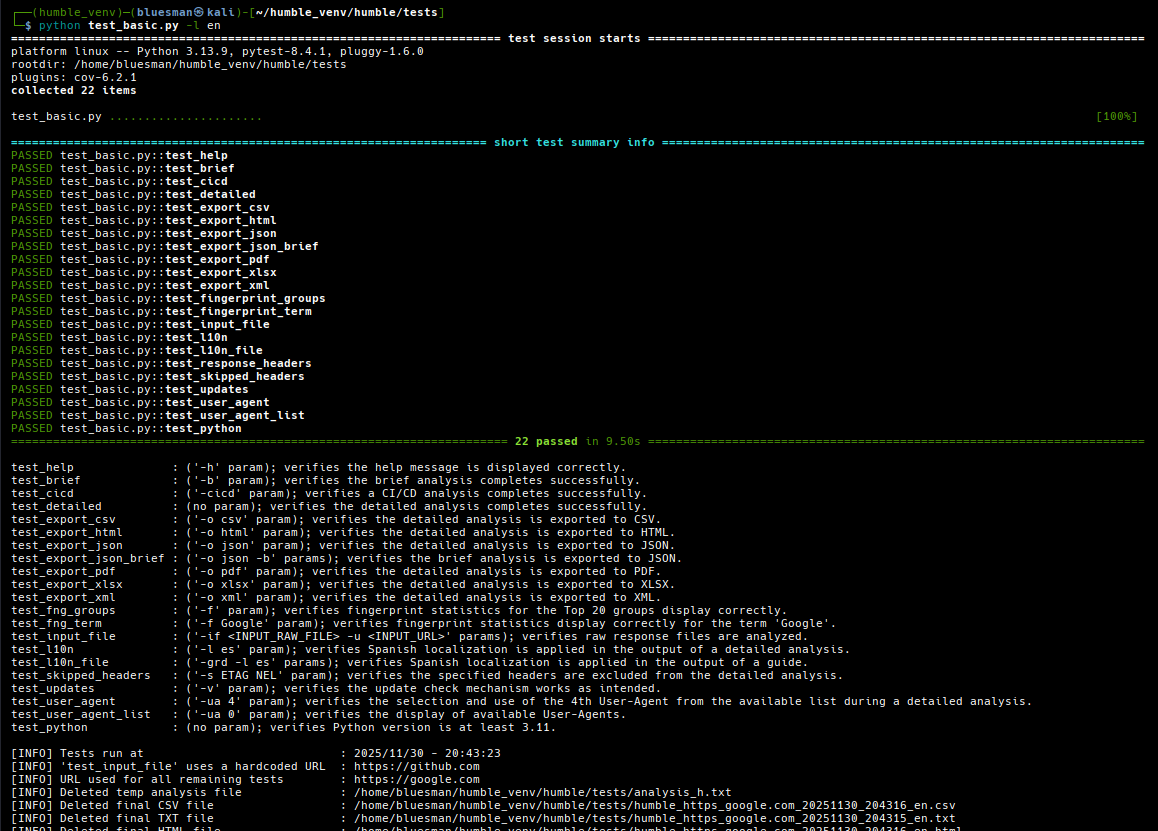
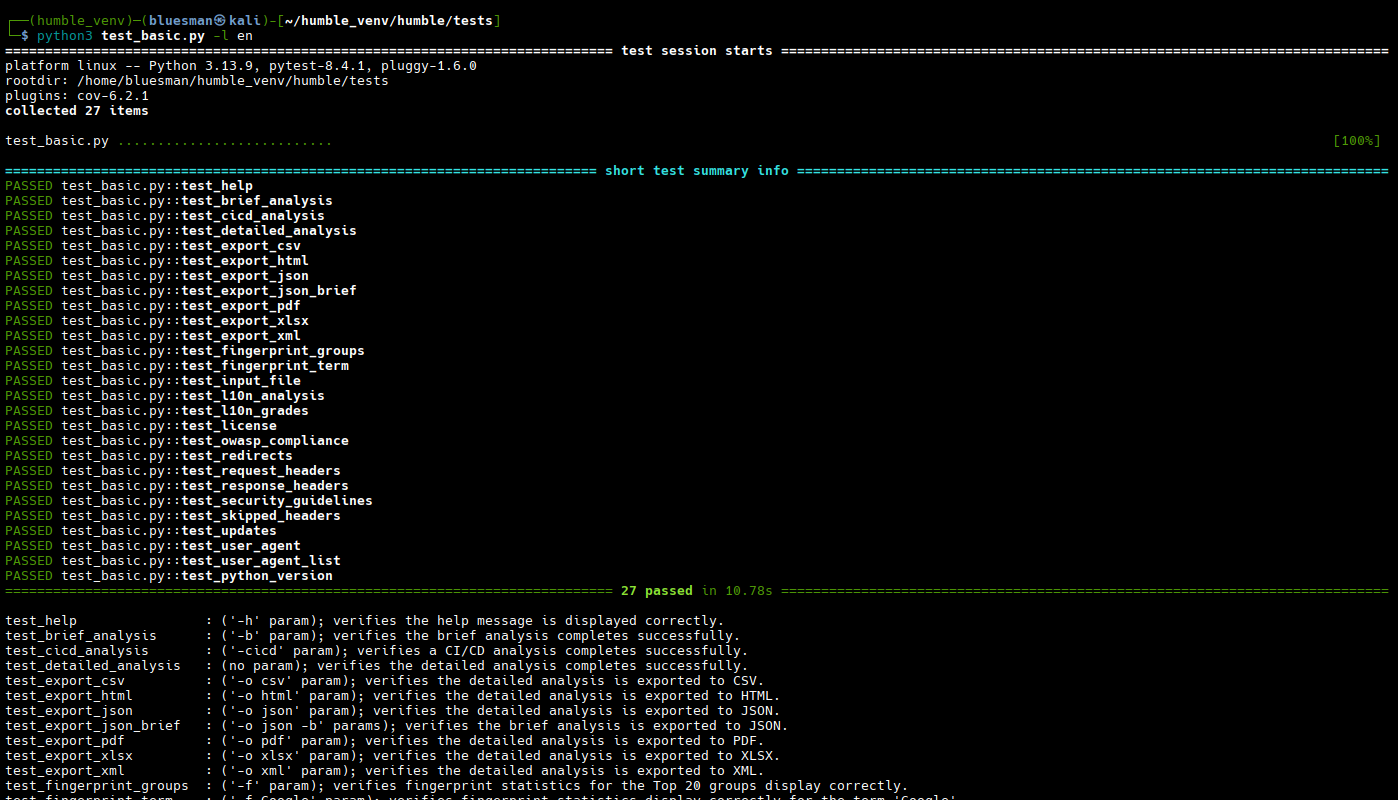
Feature: Added five functional tests

Changed region(s): [[0.0, 0.0, 0.9948, 1.0], [0.8394, 0.8438, 0.8705, 0.875], [0.7461, 0.8438, 0.7772, 0.875]]

diff --git a/tests/test_basic.py b/tests/test_basic.py
@@ -30,12 +30,12 @@ REQUIRED_PYTHON = (3, 11)
 TEST_URL = 'https://google.com'
 TEST_CFGS = {
     'test_help': (['-h'], 'want to contribute?'),
-    'test_brief': (['-u', TEST_URL, '-b'], 'Analysis Grade:'),
-    'test_cicd': (['-u', TEST_URL, '-cicd'], 'Analysis Grade'),
-    'test_detailed': (['-u', TEST_URL], 'Analysis Grade:'),
+    'test_brief_analysis': (['-u', TEST_URL, '-b'], 'Analysis Grade:'),
+    'test_cicd_analysis': (['-u', TEST_URL, '-cicd'], 'Analysis Grade'),
+    'test_detailed_analysis': (['-u', TEST_URL], 'Analysis Grade:'),
     'test_export_csv': (['-u', TEST_URL, '-o', 'csv'], 'CSV saved'),
-    'test_export_html': (['-u', TEST_URL, '-o', 'html'], 'HTML saved'),
-    'test_export_json': (['-u', TEST_URL, '-o', 'json'], 'JSON saved'),
+    'test_export_html': (['-u', TEST_URL, '-o', 'html', '-r'], 'HTML saved'),
+    'test_export_json': (['-u', TEST_URL, '-o', 'json', '-r'], 'JSON saved'),
     'test_export_json_brief': (['-u', TEST_URL, '-o', 'json', '-b'],
                                'JSON saved'),
     'test_export_pdf': (['-u', TEST_URL, '-o', 'pdf'], 'PDF saved'),
@@ -45,9 +45,20 @@ TEST_CFGS = {
     'test_fingerprint_term': (['-f', 'Google'], 'Headers related to'),
     'test_input_file': (['-if', HUMBLE_INPUT_FILE, '-u', HUMBLE_INPUT_URL],
                         'Input:'),
-    'test_l10n': (['-u', TEST_URL, '-l', 'es'], 'Advertencias a revisar'),
-    'test_l10n_file': (['-grd', '-l', 'es'], 'No te obsesiones'),
+    'test_l10n_analysis': (['-u', TEST_URL, '-l', 'es'],
+                           'Advertencias a revisar'),
+    'test_l10n_grades': (['-grd', '-l', 'es'], 'No te obsesiones'),
+    'test_license': (['-lic'], 'copyright'),
+    'test_owasp_compliance': (['-u', TEST_URL, '-c'],
+                              'non-recommended values'),
+    'test_redirects': (['-u', TEST_URL, '-df'], 'Analysis Grade:'),
+    'test_request_headers': (
+        ['-u', TEST_URL, '-H', 'Cache-Control: no-cache', '-H',
+         'If-Modified-Since: Wed, 21 Oct 2020 00:00:00 GMT'],
+        'Analysis Grade:'
+    ),
     'test_response_headers': (['-u', TEST_URL, '-r'], 'HTTP Response Headers'),
+    'test_security_guidelines': (['-g'], 'headers-in-wordpress'),
     'test_skipped_headers': (['-u', TEST_URL, '-s', 'ETAG', 'NEL'],
                              'expressly excluded'),
     'test_updates': (['-v'], 'Keeping your security tools'),
@@ -55,13 +66,19 @@ TEST_CFGS = {
                         'Selected the User-Agent'),
     'test_user_agent_list': (['-ua', '0'], 'source: '),
 }
-TEST_SUMMS = ('[test_help]', '[test_brief]', '[test_cicd]', '[test_detailed]',
-              '[test_export_csv]', '[test_export_html]', '[test_export_json]',
+TEST_SUMMS = ('[test_help]', '[test_brief_analysis]', '[test_cicd_analysis]',
+              '[test_detailed_analysis]', '[test_export_csv]',
+              '[test_export_html]', '[test_export_json]',
               '[test_export_json_brief]', '[test_export_pdf]',
-              '[test_export_xlsx]', '[test_export_xml]', '[test_fng_groups]',
-              '[test_fng_term]', '[test_input_file]', '[test_l10n]',
-              '[test_l10n_file]', '[test_skipped_headers]', '[test_updates]',
-              '[test_user_agent]', '[test_user_agent_list]', '[test_python]')
+              '[test_export_xlsx]', '[test_export_xml]',
+              '[test_fingerprint_groups]', '[test_fingerprint_term]',
+              '[test_input_file]', '[test_l10n_analysis]',
+              '[test_l10n_grades]', '[test_license]',
+              '[test_owasp_compliance]', '[test_redirects]',
+              '[test_requests_headers]', '[test_response_headers]',
+              '[test_security_guidelines]', '[test_skipped_headers]',
+              '[test_updates]', '[test_user_agent]', '[test_user_agent_list]',
+              '[test_python_version]')
 
 
 class _Args:
@@ -144,7 +161,7 @@ def get_python_version(req=REQUIRED_PYTHON):
     return sys.version_info[:2] >= req
 
 
-def test_python():
+def test_python_version():
     if not get_python_version():
         pytest.fail(
             f"{get_detail('[test_pythonm]', replace=True)} "
@@ -228,7 +245,7 @@ def delete_temps():
         print(f"[INFO] {message.ljust(max_len + 2)}: {value}")
 
 
-local_version = datetime.strptime('2025-11-30', '%Y-%m-%d').date()
+local_version = datetime.strptime('2025-12-01', '%Y-%m-%d').date()
 parser = ArgumentParser(
     formatter_class=lambda prog: RawDescriptionHelpFormatter(
         prog, max_help_position=34

diff --git a/humble.py b/humble.py
@@ -176,7 +176,7 @@ VALIDATE_FILE = path.join(OS_PATH, HUMBLE_FILES[0])
 XML_STRING = ('Ref: ', 'Value: ', 'Valor: ')
 
 current_time = datetime.now().strftime("%Y/%m/%d - %H:%M:%S")
-local_version = datetime.strptime('2025-11-30', '%Y-%m-%d').date()
+local_version = datetime.strptime('2025-12-01', '%Y-%m-%d').date()
 
 BANNER_VERSION = f'{URL_LIST[4]} | v.{local_version}'
 
@@ -1417,6 +1417,8 @@ def print_basic_info(export_filename):
 
 def print_extended_info(args, reliable, status_code):
     """Print extended information in the '[0. Info]' section of the analysis"""
+    if args.request_header:
+        print_request_headers(added_request_headers)
     if args.skip_headers:
         print_skipped_headers(args)
     if args.proxy:
@@ -1923,6 +1925,18 @@ def print_skipped_headers(args):  # sourcery skip: use-fstring-for-formatting
     print_detail_l('[analysis_skipped_note]')
     print(" " + ", ".join("'{}'".format(h.title()) for h in
                           sorted(args.skip_headers, key=str.lower)) + ".")
+
+
+def print_request_headers(added_request_headers):
+    """
+    Print the HTTP request headers explicitly added for the analysis
+    """
+    print_detail_l('[analysis_request_note]')
+    request_headers = ", ".join(
+        f"{repr(k)}: {repr(v)}"
+        for k, v in added_request_headers.items()
+    )
+    print(f" {request_headers}")
 
 
 def print_unsupported_headers(unsupported_headers):
@@ -3779,8 +3793,8 @@ if '-if' not in sys.argv:
         proxy = {"http": args.proxy, "https": args.proxy}
     custom_headers = REQ_HEADERS.copy()
     if '-H' in sys.argv:
-        added_custom_headers = parse_request_headers(args.request_header)
-        custom_headers.update(added_custom_headers)
+        added_request_headers = parse_request_headers(args.request_header)
+        custom_headers.update(added_request_headers)
     custom_headers['User-Agent'] = ua_header
     (headers, status_code, reliable, body, is_html) = (
         process_http_request(status_code, reliable, body, proxy,

diff --git a/README.md b/README.md
@@ -6,7 +6,7 @@
 <a target="_blank" href="https://devguide.python.org/versions/" title="Minimum Python version required to run this tool"><img src="https://img.shields.io/badge/Python-%3E%3D3.11-blue?labelColor=343b41"></a>
 <a target="_blank" href="LICENSE" title="License of this tool"><img src="https://img.shields.io/badge/License-MIT-blue.svg?labelColor=343b41"></a>
 <a target="_blank" href="https://github.com/rfc-st/humble/releases" title="Latest release of this tool"><img src="https://img.shields.io/github/v/release/rfc-st/humble?display_name=release&label=Latest%20Release&labelColor=343b41"></a>
-<a target="_blank" href="https://github.com/rfc-st/humble/commits/master" title="Latest commit of this tool"><img src="https://img.shields.io/badge/Latest_Commit-2025--11--30-blue.svg?labelColor=343b41"></a>
+<a target="_blank" href="https://github.com/rfc-st/humble/commits/master" title="Latest commit of this tool"><img src="https://img.shields.io/badge/Latest_Commit-2025--12--01-blue.svg?labelColor=343b41"></a>
 <a target="_blank" href="https://pkg.kali.org/pkg/humble" title="Official tool in Kali Linux"><img src="https://img.shields.io/badge/Kali%20Linux-Tool-blue?labelColor=343b41"></a>
 <br />
 <a target="_blank" href="#" title="Featured on:"><img src="https://img.shields.io/badge/Featured%20on:-343b41"></a>
@@ -23,7 +23,7 @@
 <a target="_blank" href="https://github.com/rfc-st/humble/actions/workflows/bandit-security-scan.yml" title="Results of the last analysis of this tool with bandit, for critical or high vulnerabilities"><img src="https://github.com/rfc-st/humble/actions/workflows/bandit-security-scan.yml/badge.svg"></a>
 <a target="_blank" href="https://github.com/rfc-st/humble/actions/workflows/codeql-analysis.yml?query=workflow%3ACodeQL" title="CodeQL security analysis passed"><img src="https://github.com/rfc-st/humble/workflows/CodeQL/badge.svg"></a>
 <a target="_blank" href="https://humble.readthedocs.io/en/latest/" title="humble documentation status"><img src="https://img.shields.io/badge/documentation-passing-32bd50?labelColor=343b41"></a>
-<a target="_blank" href="https://github.com/rfc-st/humble/?tab=readme-ov-file#unit-tests" title="humble code coverage"><img src="https://img.shields.io/badge/code%20coverage-66%25-f9d71c?labelColor=343b41"></a>
+<a target="_blank" href="https://github.com/rfc-st/humble/?tab=readme-ov-file#unit-tests" title="humble code coverage"><img src="https://img.shields.io/badge/code%20coverage-69%25-f9d71c?labelColor=343b41"></a>
 <a target="_blank" href="https://www.bestpractices.dev/projects/9543" title="OpenSSF best practices analysis"><img src="https://www.bestpractices.dev/projects/9543/badge"></a>
 <br />
 <br />
